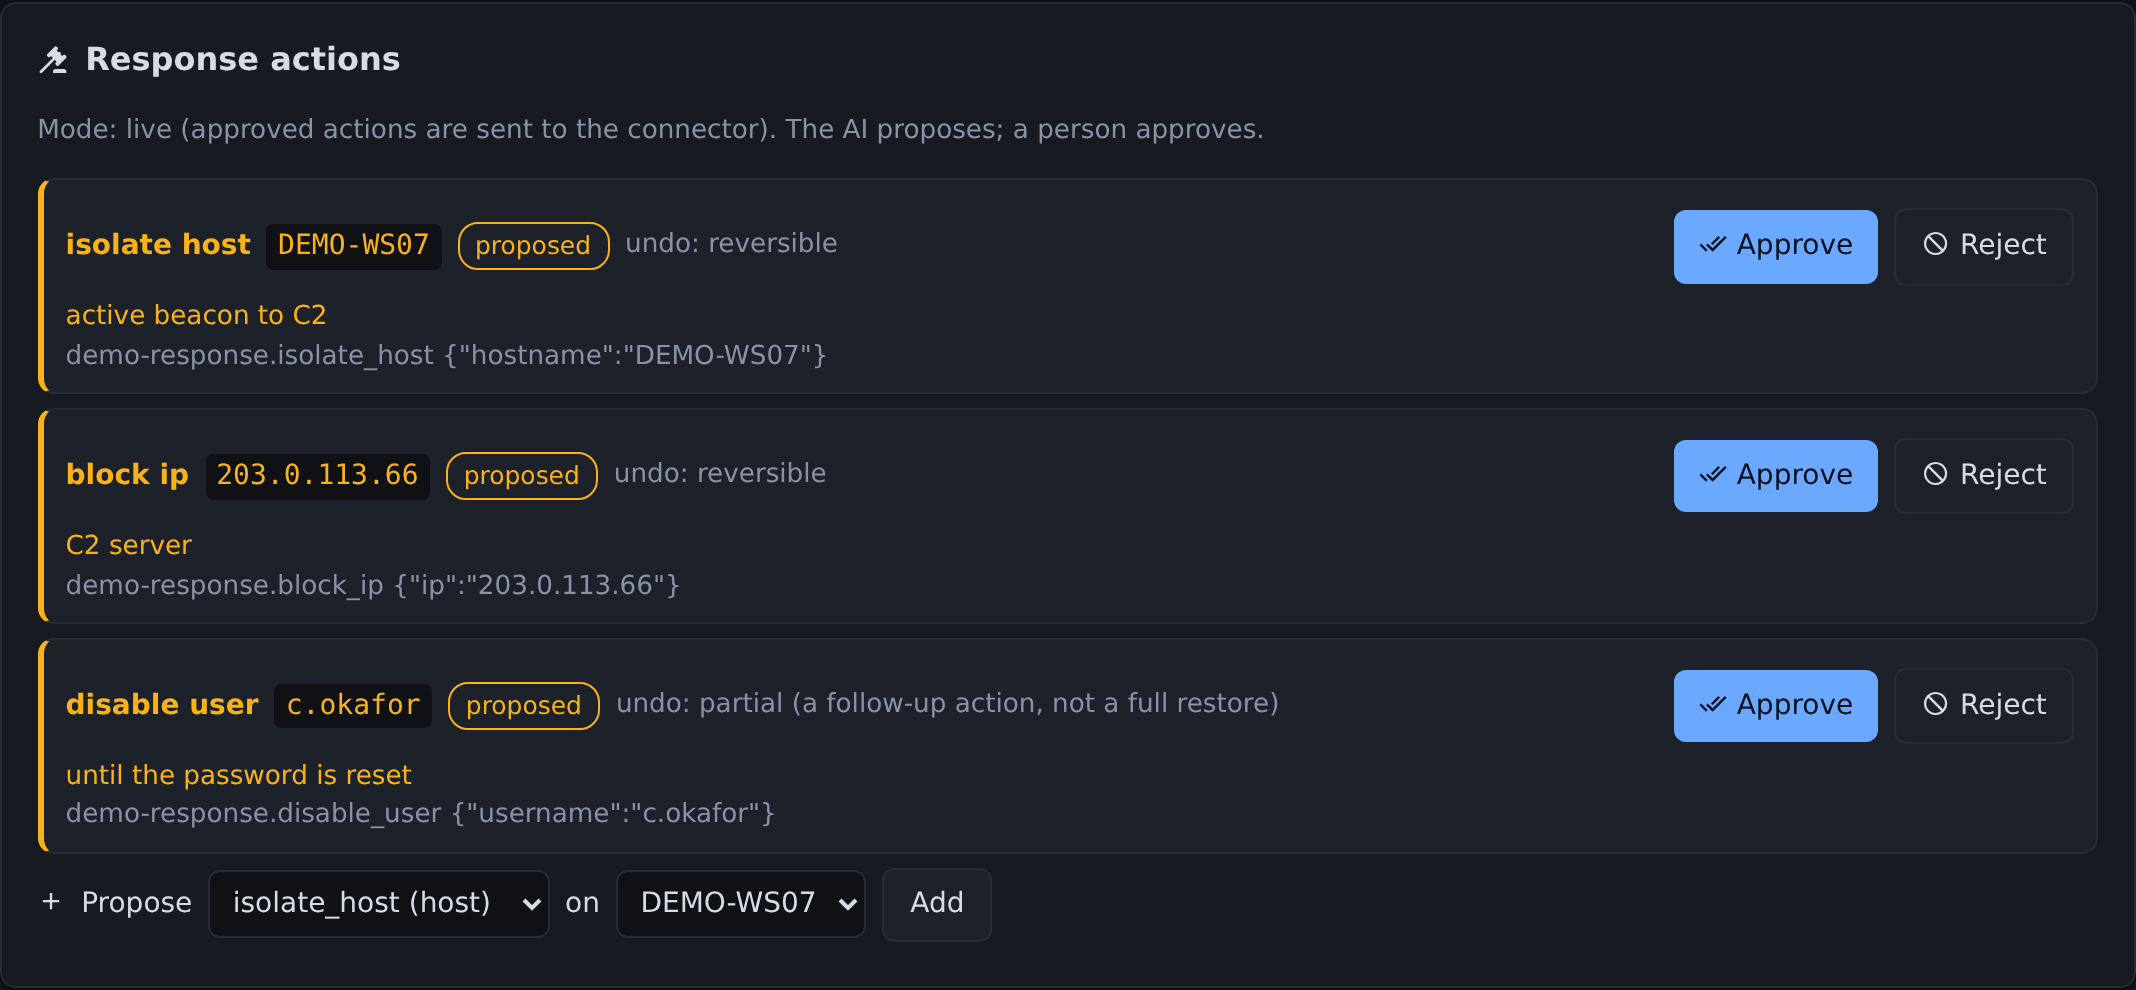
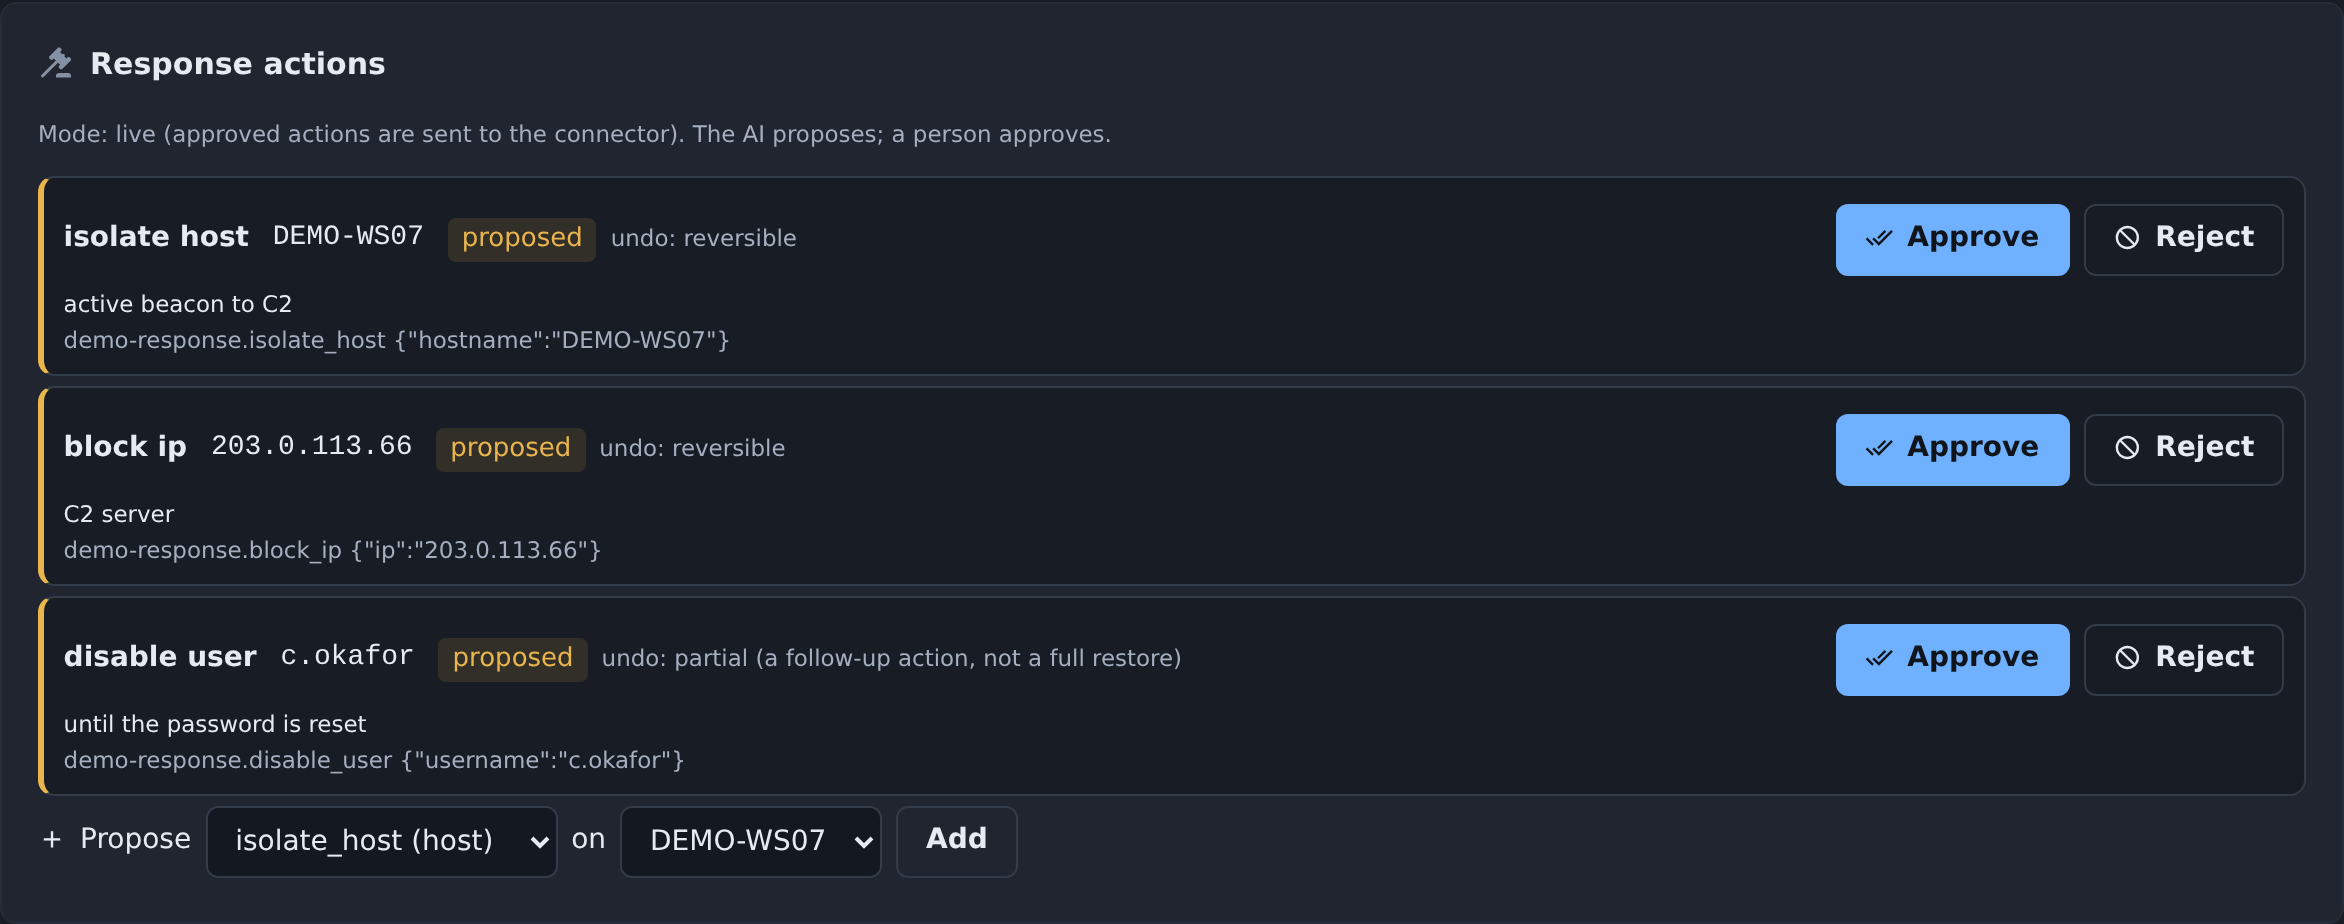
Release 0.5.1-beta

diff --git a/actaeon/static/app.css b/actaeon/static/app.css
@@ -153,3 +153,4 @@ th,.sev{white-space:nowrap}td code,td .small{overflow-wrap:anywhere}
 .soc .sig-high{color:var(--tp);border-color:var(--tp)}.soc .sig-medium{color:var(--need);border-color:var(--need)}.soc .sig-info{color:var(--muted)}
 
 .sr-only{position:absolute;width:1px;height:1px;margin:-1px;overflow:hidden;clip-path:inset(50%);white-space:nowrap}
+.soc .action-card[class*="st-"]{color:var(--ink);background:var(--ground)}

diff --git a/actaeon/__init__.py b/actaeon/__init__.py
@@ -1,3 +1,3 @@
 """Actaeon: an open-source AI threat hunter that works through MCP connectors."""
 
-__version__ = "0.5.0-beta"
+__version__ = "0.5.1-beta"

diff --git a/CHANGELOG.md b/CHANGELOG.md
@@ -7,6 +7,8 @@ behaviour may still change between releases.
 
 ## [Unreleased]
 
+## [0.5.1-beta] — 2026-11-24
+
 ### Added
 
 - An assistant panel opens from the title bar (Ctrl+I) on every page.
